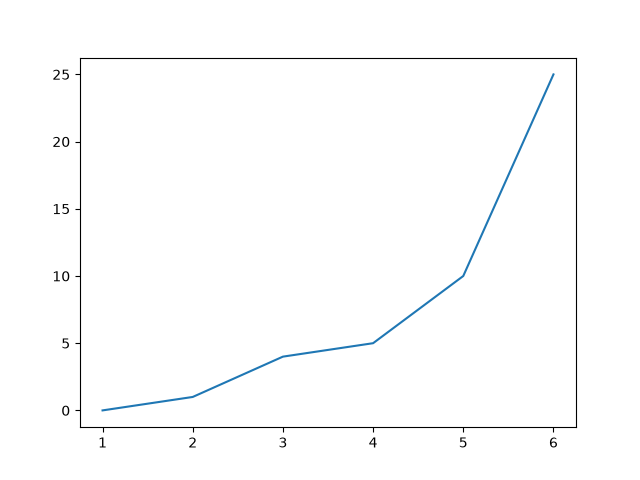
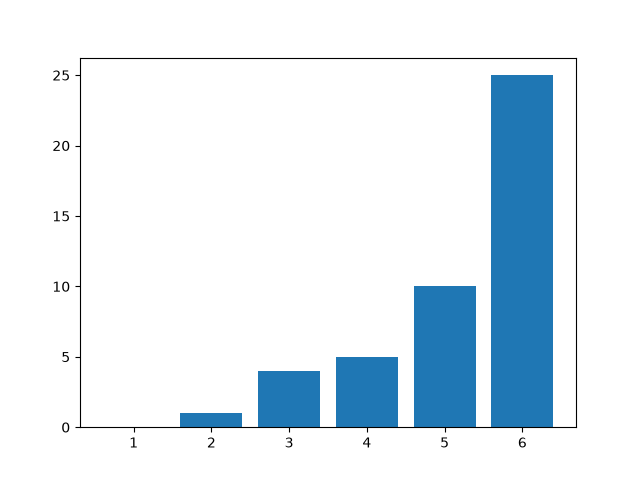
Day 4 & 5

diff --git a/day5/test3.py b/day5/test3.py
@@ -1,6 +1,6 @@
 import matplotlib.pyplot as plt
 x = [1, 2, 3, 4, 5, 6]
 y = [0, 1, 4, 5, 10, 25]
-plt.plot(x, y)
+plt.bar(x, y)
 plt.savefig('plot.png')
 print("Plot saved to plot.png")